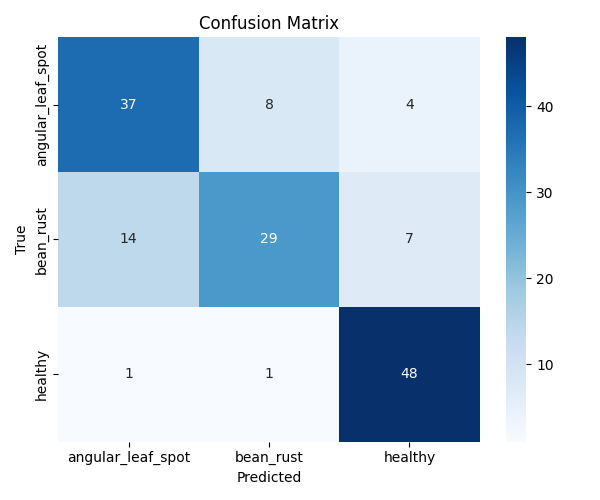
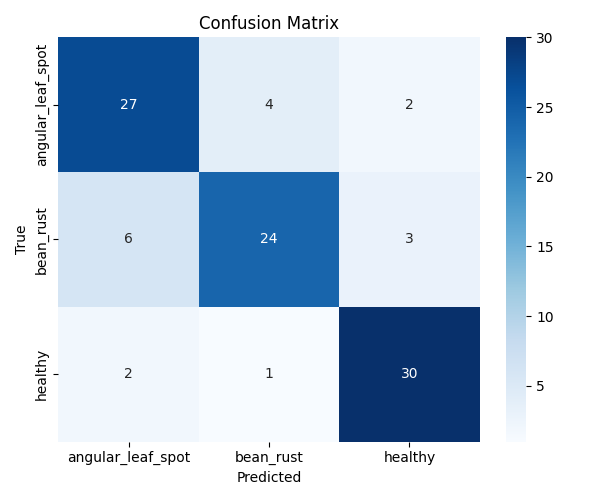
Update ML
improved CNN, improved transform_train, model train longer, but decay the learning rate as it converges, epochs from 10 -> 30, training split from 70/30 -> 80/20 , accuracy around 82%

diff --git a/project.py b/project.py
@@ -1,15 +1,19 @@
 #!/usr/bin/env python3
 """
-Team 2 — Plant Disease (Beans) (Image Classification)
+Team 2 — Bean Plant Disease Classification 🌱
 Dataset: therealoise/bean-disease-dataset (Kaggle)
-Modality: image (3-class)
-Goal: Detect healthy vs two bean leaf diseases
-Target: ≥92% test accuracy with a tiny CNN
+Goal: Classify bean leaves as healthy or diseased (3 classes)
+Model: Lightweight CNN (TinyCNN)
 """
 
+# -------------------------
+# Imports
+# -------------------------
 import os
 import json
 import numpy as np
+from collections import Counter
+import kagglehub
 import torch
 import torch.nn as nn
 import torch.optim as optim
@@ -22,26 +26,23 @@ from sklearn.metrics import (
     classification_report,
     confusion_matrix,
 )
-from collections import Counter
 import matplotlib.pyplot as plt
 import seaborn as sns
-import kagglehub
 
 
 # -------------------------
 # 1⃣ Load and Split Data
 # -------------------------
-def load_data(dataset_id="therealoise/bean-disease-dataset", val_split=0.15, test_split=0.15):
+def load_data(dataset_id="therealoise/bean-disease-dataset", val_split=0.1, test_split=0.1):
     """Download and prepare stratified train/val/test splits."""
     path = kagglehub.dataset_download(dataset_id)
     print("✅ Dataset downloaded to:", path)
 
-    # Dataset expected as Bean_Dataset/<class_name>/
     data_dir = os.path.join(path, "Bean_Dataset")
     full_dataset = datasets.ImageFolder(root=data_dir)
     labels = np.array([y for _, y in full_dataset.samples])
 
-    # Stratified split: 70% train, 15% val, 15% test
+
     train_idx, temp_idx = train_test_split(
         np.arange(len(labels)),
         test_size=val_split + test_split,
@@ -63,13 +64,15 @@ def load_data(dataset_id="therealoise/bean-disease-dataset", val_split=0.15, tes
     # Print class balance
     def show_class_balance(dataset, name):
         lbls = [dataset.dataset.samples[i][1] for i in dataset.indices]
-        print(f"  {name} class balance:", Counter(lbls))
+        counts = Counter(lbls)
+        print(f"  {name} class balance:", counts)
 
     total = len(full_dataset)
     print(f"📊 Stratified split (total={total}):")
     print(f"  Train={len(train_ds)} ({len(train_ds)/total:.1%})")
     print(f"  Val={len(val_ds)} ({len(val_ds)/total:.1%})")
     print(f"  Test={len(test_ds)} ({len(test_ds)/total:.1%})")
+
     show_class_balance(train_ds, "Train")
     show_class_balance(val_ds, "Val")
     show_class_balance(test_ds, "Test")
@@ -81,48 +84,62 @@ def load_data(dataset_id="therealoise/bean-disease-dataset", val_split=0.15, tes
 # 2⃣ Preprocessing / Augmentation
 # -------------------------
 def preprocess(train_ds, val_ds, test_ds, batch_size=32):
-    """Set up image transforms and DataLoaders."""
+    """Set up transforms and dataloaders."""
     transform_train = transforms.Compose([
         transforms.Resize((128, 128)),
+        transforms.RandomResizedCrop(128, scale=(0.8, 1.0)),
         transforms.RandomHorizontalFlip(),
-        transforms.RandomRotation(15),
-        transforms.ColorJitter(brightness=0.1, contrast=0.1),
+        transforms.RandomVerticalFlip(),
+        transforms.RandomRotation(20),
+        transforms.ColorJitter(brightness=0.2, contrast=0.2, saturation=0.2),
         transforms.ToTensor(),
         transforms.Normalize([0.5]*3, [0.5]*3),
     ])
 
-    transform_eval = transforms.Compose([
+    transform_test = transforms.Compose([
         transforms.Resize((128, 128)),
         transforms.ToTensor(),
         transforms.Normalize([0.5]*3, [0.5]*3),
     ])
 
-    # Assign transforms
     train_ds.dataset.transform = transform_train
-    val_ds.dataset.transform = transform_eval
-    test_ds.dataset.transform = transform_eval
+    val_ds.dataset.transform = transform_test
+    test_ds.dataset.transform = transform_test
 
-    # Dataloaders
-    train_loader = DataLoader(train_ds, batch_size=batch_size, shuffle=True)
-    val_loader = DataLoader(val_ds, batch_size=batch_size, shuffle=False)
-    test_loader = DataLoader(test_ds, batch_size=batch_size, shuffle=False)
+    train_loader = DataLoader(train_ds, batch_size=batch_size, shuffle=True, num_workers=0)
+    val_loader = DataLoader(val_ds, batch_size=batch_size, shuffle=False, num_workers=0)
+    test_loader = DataLoader(test_ds, batch_size=batch_size, shuffle=False, num_workers=0)
 
     return train_loader, val_loader, test_loader
 
 
 # -------------------------
-# 3⃣ Tiny CNN Model
+# 3⃣ Model: Tiny CNN (with BatchNorm + Dropout)
 # -------------------------
 class TinyCNN(nn.Module):
     def __init__(self, num_classes=3):
         super().__init__()
         self.net = nn.Sequential(
-            nn.Conv2d(3, 16, 3, padding=1), nn.ReLU(), nn.MaxPool2d(2),
-            nn.Conv2d(16, 32, 3, padding=1), nn.ReLU(), nn.MaxPool2d(2),
-            nn.Conv2d(32, 64, 3, padding=1), nn.ReLU(), nn.MaxPool2d(2),
+            nn.Conv2d(3, 16, 3, padding=1),
+            nn.BatchNorm2d(16),
+            nn.ReLU(),
+            nn.MaxPool2d(2),
+
+            nn.Conv2d(16, 32, 3, padding=1),
+            nn.BatchNorm2d(32),
+            nn.ReLU(),
+            nn.MaxPool2d(2),
+
+            nn.Conv2d(32, 64, 3, padding=1),
+            nn.BatchNorm2d(64),
+            nn.ReLU(),
+            nn.MaxPool2d(2),
+
             nn.Flatten(),
+            nn.Dropout(0.4),
+            nn.Linear(64 * 16 * 16, 128),
+            nn.ReLU(),
             nn.Dropout(0.3),
-            nn.Linear(64 * 16 * 16, 128), nn.ReLU(),
             nn.Linear(128, num_classes)
         )
 
@@ -131,40 +148,42 @@ class TinyCNN(nn.Module):
 
 
 # -------------------------
-# 4⃣ Train
+# 4⃣ Train Model
 # -------------------------
-def train(model, train_loader, val_loader, epochs=10, lr=1e-3):
-    """Train CNN with validation tracking."""
+def train(model, train_loader, val_loader, epochs=30, lr=1e-3):
     device = torch.device("cuda" if torch.cuda.is_available() else "cpu")
     model.to(device)
+
     criterion = nn.CrossEntropyLoss()
     optimizer = optim.Adam(model.parameters(), lr=lr)
+    scheduler = torch.optim.lr_scheduler.StepLR(optimizer, step_size=5, gamma=0.5)
 
     for epoch in range(1, epochs + 1):
         model.train()
         train_loss = 0
-
         for X, y in train_loader:
             X, y = X.to(device), y.to(device)
             optimizer.zero_grad()
-            loss = criterion(model(X), y)
+            outputs = model(X)
+            loss = criterion(outputs, y)
             loss.backward()
             optimizer.step()
             train_loss += loss.item() * X.size(0)
 
-        # Validation
         model.eval()
         val_loss, correct = 0, 0
         with torch.no_grad():
             for X, y in val_loader:
                 X, y = X.to(device), y.to(device)
                 outputs = model(X)
-                val_loss += criterion(outputs, y).item() * X.size(0)
+                loss = criterion(outputs, y)
+                val_loss += loss.item() * X.size(0)
                 correct += (outputs.argmax(1) == y).sum().item()
 
+        scheduler.step()
         val_acc = correct / len(val_loader.dataset)
-        print(f"Epoch {epoch}/{epochs} | Train Loss: {train_loss/len(train_loader.dataset):.4f} | "
-              f"Val Loss: {val_loss/len(val_loader.dataset):.4f} | Val Acc: {val_acc:.4f}")
+        print(f"Epoch {epoch}/{epochs} | Train Loss: {train_loss/len(train_loader.dataset):.4f} "
+              f"| Val Loss: {val_loss/len(val_loader.dataset):.4f} | Val Acc: {val_acc:.4f}")
 
     return model
 
@@ -173,9 +192,8 @@ def train(model, train_loader, val_loader, epochs=10, lr=1e-3):
 # 5⃣ Evaluate
 # -------------------------
 def evaluate(model, test_loader):
-    """Evaluate model and save metrics + confusion matrix."""
-    device = torch.device("cuda" if torch.cuda.is_available() else "cpu")
     model.eval()
+    device = torch.device("cuda" if torch.cuda.is_available() else "cpu")
 
     y_true, y_pred = [], []
     with torch.no_grad():
@@ -192,7 +210,6 @@ def evaluate(model, test_loader):
     precision, recall, f1, _ = precision_recall_fscore_support(
         y_true, y_pred, average="weighted", zero_division=0
     )
-
     report = classification_report(
         y_true, y_pred,
         labels=all_labels,
@@ -201,7 +218,7 @@ def evaluate(model, test_loader):
         output_dict=True,
     )
 
-    # Confusion matrix plot
+    # Confusion Matrix
     cm = confusion_matrix(y_true, y_pred, labels=all_labels)
     plt.figure(figsize=(6, 5))
     sns.heatmap(cm, annot=True, fmt="d", cmap="Blues",
@@ -214,7 +231,14 @@ def evaluate(model, test_loader):
     plt.close()
     print("✅ Confusion matrix saved as confusion_matrix.png")
 
-    metrics = {"accuracy": acc, "precision": precision, "recall": recall, "f1": f1, "report": report}
+    metrics = {
+        "accuracy": acc,
+        "precision": precision,
+        "recall": recall,
+        "f1": f1,
+        "report": report,
+    }
+
     with open("metrics.json", "w") as f:
         json.dump(metrics, f, indent=4)
     print("✅ Metrics saved to metrics.json")
@@ -223,23 +247,13 @@ def evaluate(model, test_loader):
 
 
 # -------------------------
-# 6⃣ Main Pipeline
+# 6⃣ Main
 # -------------------------
 def main():
     train_ds, val_ds, test_ds = load_data()
-
-    # Optional: Inspect split balance
-    def inspect_split(ds, name):
-        labels = [ds.dataset.samples[i][1] for i in ds.indices]
-        print(f"{name} class distribution:", Counter(labels))
-
-    inspect_split(train_ds, "Train")
-    inspect_split(val_ds, "Val")
-    inspect_split(test_ds, "Test")
-
     train_loader, val_loader, test_loader = preprocess(train_ds, val_ds, test_ds)
     model = TinyCNN(num_classes=3)
-    model = train(model, train_loader, val_loader)
+    model = train(model, train_loader, val_loader, epochs=30)
     metrics = evaluate(model, test_loader)
 
     print("\n📈 Final Metrics:")
